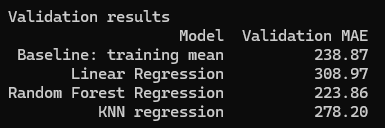
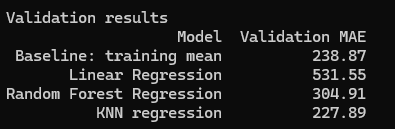
Revising to include weather and kick off time in ml_feature

diff --git a/etl/transform.py b/etl/transform.py
@@ -189,6 +189,19 @@ fact_weather = fact_weather[["game_id", "temp_c", "wind_speed_kmh", "percip_mm",
 ml_feature = home_games.copy()
 ml_feature["date_id"] = pd.to_datetime(ml_feature["date_id"])
 ml_feature = ml_feature.sort_values("date_id").reset_index(drop=True)
+ml_feature["kickoff_time"] = ml_feature["kickoff_utc"]
+local_kickoff = ml_feature["kickoff_time"].dt.tz_convert("America/Chicago")
+local_minutes = local_kickoff.dt.hour * 60 + local_kickoff.dt.minute
+kickoff_period = pd.cut(
+    local_minutes,
+    bins=[-1, 15 * 60, 18 * 60, 21 * 60, 24 * 60],
+    labels=["afternoon", "early_evening", "prime_time", "late"],
+)
+for period in kickoff_period.cat.categories:
+    ml_feature[f"kickoff_{period}"] = kickoff_period.eq(period).astype(int)
+ml_feature = ml_feature.merge(
+    fact_weather, on="game_id", how="left", validate="one_to_one"
+)
 ml_feature["is_holiday"] = dim_date["date_id"].isin(holidays).astype(int)
 
 # Calculate days since the previous home game, including across seasons
@@ -210,7 +223,10 @@ ml_feature["is_postseason"] = (ml_feature["game_type"] != "REG").astype(int)
 # Select columns in the same order as the SQL table
 ml_feature = ml_feature[
     [
-        "game_id", "date_id", "season", "attendance", "week", "is_holiday", "is_postseason",
+        "game_id", "date_id", "season", "attendance", "kickoff_time",
+        "kickoff_afternoon", "kickoff_early_evening", "kickoff_prime_time", "kickoff_late",
+        "temp_c", "wind_speed_kmh", "percip_mm", "relative_humidity",
+        "week", "is_holiday", "is_postseason",
         "day_monday", "day_tuesday", "day_wednesday", "day_thursday", "day_friday", "day_saturday",
         "days_since_last_home_game", "split", "win_pct_before_game"
     ]

diff --git a/model/model.py b/model/model.py
@@ -119,6 +119,16 @@ results.append({"Model": "Linear Regression", "Validation MAE": validation_mae})
 
 
 # Train a random forest; limit tree size because the dataset is small
+# Remove the additional features for the random forest
+remove_columns = [
+    "kickoff_afternoon", "kickoff_early_evening", "kickoff_prime_time",
+    "kickoff_late", "relative_humidity", "is_postseason", "day_monday", "day_tuesday", 
+    "day_wednesday", "day_thursday", "day_friday", "day_saturday"
+]
+
+x_train_forest = x_train.drop(columns=remove_columns)
+x_validate_forest = x_validate.drop(columns=remove_columns)
+
 random_forest = RandomForestRegressor(
     n_estimators=300,
     max_depth=3,
@@ -126,8 +136,8 @@ random_forest = RandomForestRegressor(
     random_state=my_random_seed
 )
 
-random_forest.fit(x_train, y_train)
-y_pred_validate = random_forest.predict(x_validate)
+random_forest.fit(x_train_forest, y_train)
+y_pred_validate = random_forest.predict(x_validate_forest)
 validation_mae = mean_absolute_error(y_validate, y_pred_validate)
 results.append({"Model": "Random Forest Regression", "Validation MAE": validation_mae})
 
@@ -185,7 +195,7 @@ feature_importance = pd.DataFrame({
     "Importance": random_forest.feature_importances_
 })
 
-top_features = feature_importance.sort_values("Importance", ascending=False).head(5)
+top_features = feature_importance.sort_values("Importance", ascending=False).head(4)
 
-print("\nTop five random forest features")
+print("\nTop four random forest features")
 print(top_features.to_string(index=False, float_format=lambda value: f"{value:.4f}"))

diff --git a/docs/field_sources.md b/docs/field_sources.md
@@ -28,6 +28,15 @@
 | ml_feature | date_id | Joined | Copy fact_game.date_id. | Date metadata; chronological ordering, excluded from model inputs. |
 | ml_feature | season | Joined | Copy dim_date.season through fact_game.date_id. | Split metadata, excluded from model inputs. |
 | ml_feature | attendance | Joined | Copy fact_game.attendance; retain NULL for missing actual attendance. | Target; never include in model input features. |
+| ml_feature | kickoff_time | Joined | Copy fact_game.kickoff_time, stored as a UTC timestamp. | Schedule metadata, excluded from model inputs. |
+| ml_feature | kickoff_afternoon | Calculated in Python | Convert kickoff_time to America/Chicago time and encode local kickoff times through 3:00 PM as 1, otherwise 0. | Binary kickoff-period feature. |
+| ml_feature | kickoff_early_evening | Calculated in Python | Convert kickoff_time to America/Chicago time and encode local kickoff times after 3:00 PM through 6:00 PM as 1, otherwise 0. | Binary kickoff-period feature. |
+| ml_feature | kickoff_prime_time | Calculated in Python | Convert kickoff_time to America/Chicago time and encode local kickoff times after 6:00 PM through 9:00 PM as 1, otherwise 0. | Binary kickoff-period feature. |
+| ml_feature | kickoff_late | Calculated in Python | Convert kickoff_time to America/Chicago time and encode local kickoff times after 9:00 PM as 1, otherwise 0. | Binary kickoff-period feature. |
+| ml_feature | temp_c | Joined | Copy fact_weather.temp_c matched by game_id at the weather hour closest to kickoff. | Numeric weather feature. |
+| ml_feature | wind_speed_kmh | Joined | Copy fact_weather.wind_speed_kmh matched by game_id at the weather hour closest to kickoff. | Numeric weather feature. |
+| ml_feature | percip_mm | Joined | Copy fact_weather.percip_mm matched by game_id at the weather hour closest to kickoff. | Numeric weather feature. |
+| ml_feature | relative_humidity | Joined | Copy fact_weather.relative_humidity matched by game_id at the weather hour closest to kickoff. | Numeric weather feature. |
 | ml_feature | week | Joined | Copy fact_game.week from the pregame schedule. | Numeric feature. |
 | ml_feature | is_holiday | Calculated in Python | Convert joined dim_date.is_holiday to integer 0 or 1. | Encoded binary calendar feature. |
 | ml_feature | is_postseason | Calculated in Python | Encode game_type REG as 0 and WC, DIV, CON, SB as 1; reject unknown types and exclude preseason. | Encoded binary game-type feature. |

diff --git a/docs/model_report.md b/docs/model_report.md
@@ -19,10 +19,16 @@ I used mean absolute error (MAE), which measures how many fans my attendance pre
 
 ### Model Chosen
 
-I choose the Randome Forrest model as it was the only model that had a lower MAE thant he base MAE at 223.86.
-
-Its test score ended up being much higher at 351.2.
+I chose KNN regression because it was the only model that beat the baseline, with a validation MAE of 227.89 fans. 
 
 ### Top Features
+| Feature | Importance | Business meaning |
+| :--- | ---: | :--- |
+
 
 ### limits
+The model uses a small dataset, and attendance varies relatively little across home games. This limits the patterns it can learn and helps explain why predicting the training average was difficult to beat. Its higher test MAE also shows that validation performance does not guarantee the same accuracy in a later season.
+
+The model does not account for ticket prices, opponent popularity. Adding more seasons and these factors could help explain attendance differences. Because the London game was excluded, the model’s results should not be assumed to apply to games at other venues.
+
+Season is also a limited predictor for a random forest because it cannot reliably project a continuing year-to-year trend into future seasons.

diff --git a/README.md b/README.md
@@ -33,3 +33,10 @@ Used ChatGPT-6.1 Sol for:
  - Creating the data dictionary: Mapping database fields to their sources and explaining each field’s purpose.
  - Designing the database: Organizing dimension and fact tables and creating sql/schema.sql with data types, primary keys, and foreign keys.
  - Troubleshooting: Interpreting the missing-table error in db_check.py and identifying steps to check the database and create the tables.
+ - Helped write and revise Python code for feature engineering, including days since the previous home game, weekday encoding, and holiday and postseason indicators.
+ - Helped create charts using training data and describe the patterns shown.
+ - Helped adapt regression models to predict attendance and compare their validation scores.
+ - Provided guidance on handling missing attendance and feature values.
+ - Helped write code to evaluate the selected model on test data and identify its most important features.
+ - Helped design a predictions table and code for saving model results to Postgres.
+ - Helped revise project documentation, including the explanation of model selection, results, and limitations.
